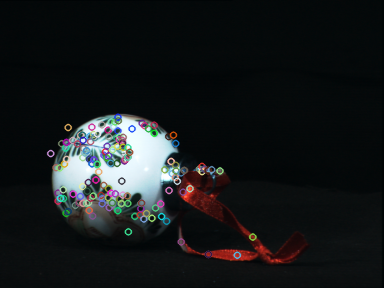
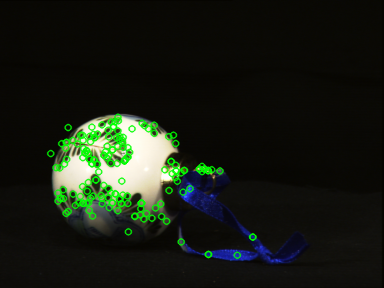
fix color

diff --git a/showkeypoints.py b/showkeypoints.py
@@ -18,7 +18,7 @@ def main (path, descpt_tpye, save_path):
         kp,_ = brief_descriptor_generator(img, 10000)
 
     print ("{} key points are detected.".format(len(kp)))
-    img = cv2.drawKeypoints(img, kp, img)
+    img = cv2.drawKeypoints(img, kp, img, color=(0,255,0))
     img = cv2.cvtColor(img,cv2.COLOR_BGR2RGB)
     plt.imshow(img)
     plt.axis("off")
